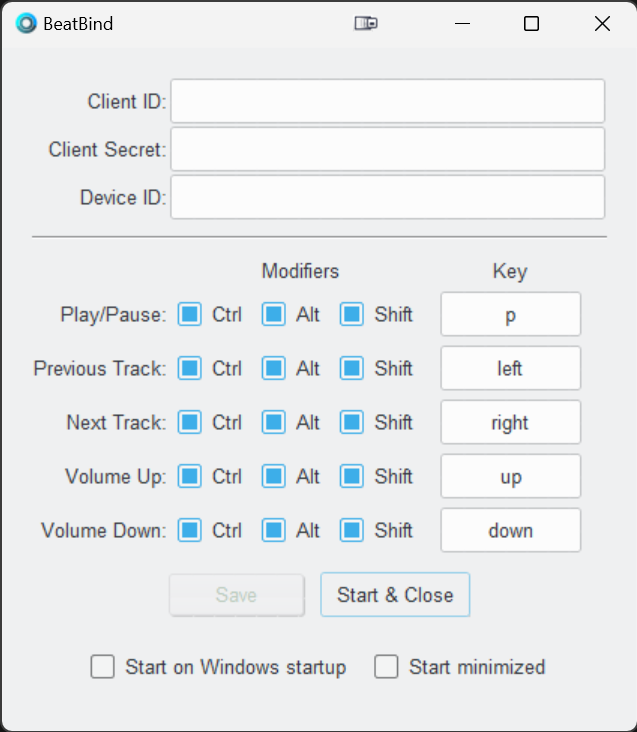
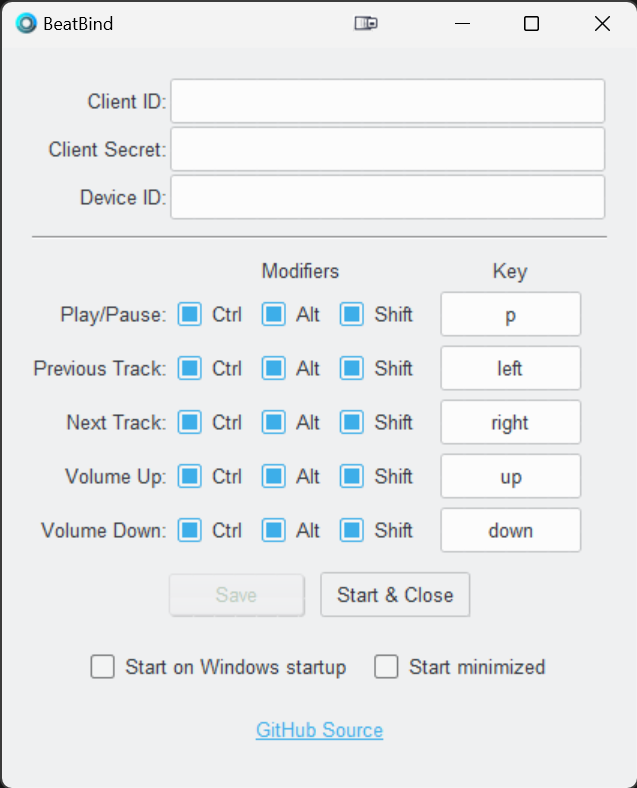
Added source link to window

diff --git a/BeatBind/frontend.py b/BeatBind/frontend.py
@@ -4,6 +4,7 @@ import psutil
 import pystray
 import win32api
 import win32con
+import webbrowser
 import json.decoder
 import tkinter as tk
 from PIL import Image
@@ -128,6 +129,9 @@ class Frontend(object):
             alt_checkbox.config(command=set_modified)
             shift_checkbox.config(command=set_modified)
             return ctrl_checkbox, alt_checkbox, shift_checkbox
+        
+        def link_callback(url):
+            webbrowser.open_new_tab(url)
                     
         def center_window(window):
             window.update_idletasks()
@@ -184,10 +188,13 @@ class Frontend(object):
         next_track_label = ttk.Label(frame, text='Next Track:')
         volume_up_label = ttk.Label(frame, text='Volume Up:')
         volume_down_label = ttk.Label(frame, text='Volume Down:')
-        
         labels_frame = ttk.Frame(frame)
         modifier_label = ttk.Label(labels_frame, text='Modifiers')
         key_label = ttk.Label(labels_frame, text='Key')
+        
+        source_frame = ttk.Frame(frame)
+        source_link = ttk.Label(source_frame, text='GitHub Source', font=('TkDefaultFont', 10, 'underline'), foreground='#3DAEE9', cursor='hand2')
+        source_link.bind('<Button-1>', lambda event: link_callback('https://github.com/justinknguyen/BeatBind'))
         
         # Entries
         width = 40
@@ -359,9 +366,13 @@ class Frontend(object):
         button_frame.grid(row=12, column=0, columnspan=2, pady=10)
         save_button.pack(side='left', padx=(0, 5))
         start_button.pack(side='left', padx=(5, 0))
+        
         checkbox_frame.grid(row=13, column=0, columnspan=2, pady=10)
         startup_checkbox.pack(side='left', padx=(0, 5))
         minimize_checkbox.pack(side='left', padx=(5, 0))
+        
+        source_frame.grid(row=14, column=0, columnspan=2, pady=10)
+        source_link.pack(side='left')
        
         # Center window and focus
         center_window(root)
